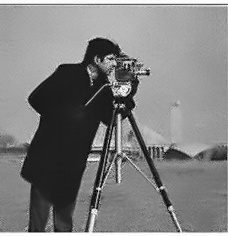
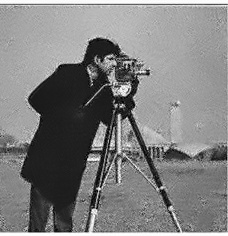
deploy real

diff --git a/templates/index.html b/templates/index.html
@@ -4,12 +4,59 @@
     <meta charset="UTF-8">
     <meta name="viewport" content="width=device-width, initial-scale=1.0">
     <title>Non-local Means Denoising</title>
+    <style>
+        /* Style to display value inline */
+        #h_value_display {
+            display: inline;
+            margin-left: 10px; /* Add some margin for spacing */
+        }
+        #h_value_input {
+            width: 50px; /* Adjust the width of the input field */
+        }
+    </style>
 </head>
 <body>
     <h1>Non-local Means Denoising</h1>
     <form action="/upload" method="post" enctype="multipart/form-data">
-        <input type="file" name="file" id="file">
+        <input type="file" name="file" id="file" onchange="previewImage(event)">
+        <label for="h_value">Value of h:</label>
+        <input type="range" name="h_value_slider" id="h_value_slider" min="0" max="100" step="0.1" value="20" onchange="updateHValue(this.value)">
+        <input type="number" name="h_value_input" id="h_value_input" min="0" step="0.1" value="20" onchange="updateHValue(this.value)">
+        <input type="hidden" name="h_value" id="h_value" value="20">
         <input type="submit" value="Upload">
     </form>
+    <div id="image_preview"></div> 
+
+    <script>
+        // Function to preview the selected image
+        function previewImage(event) {
+            const file = event.target.files[0];
+            const reader = new FileReader();
+            
+            // Closure to handle file reading
+            reader.onload = function() {
+                const img = document.createElement('img');
+                img.src = reader.result;
+                img.style.maxWidth = '100%'; 
+                const imagePreviewDiv = document.getElementById('image_preview');
+                imagePreviewDiv.innerHTML = ''; 
+                imagePreviewDiv.appendChild(img); 
+            };
+            
+            // Read the selected file as a data URL
+            reader.readAsDataURL(file);
+        }
+
+        // Function to update the displayed value of h
+        function updateHValue(value) {
+            const hValueInput = document.getElementById('h_value_input');
+            const hValueSlider = document.getElementById('h_value_slider');
+            const hValueHidden = document.getElementById('h_value'); 
+
+            hValueInput.value = value;
+            hValueSlider.value = value;
+            hValueHidden.value = value; 
+        }
+    </script>
 </body>
 </html>

diff --git a/app.py b/app.py
@@ -31,15 +31,16 @@ def upload_file():
             filename = file.filename
             filepath = os.path.join(app.config['UPLOAD_FOLDER'], filename)
             file.save(filepath)
+            h_value = float(request.form['h_value'])  # Get the value of h from the form
             img = cv2.imread(filepath)
-            denoised_img = perform_nlm_denoising(img)
+            denoised_img = perform_nlm_denoising(img, h=h_value)  # Pass h_value to the function
             output_filename = 'denoised_' + filename
             output_filepath = os.path.join(app.config['OUTPUT_FOLDER'], output_filename)
             cv2.imwrite(output_filepath, denoised_img)
             return render_template('result.html', filename=output_filename)
     return redirect(url_for('index'))
 
-def perform_nlm_denoising(image):
+def perform_nlm_denoising(image, h=20):  # Add a default value for h
     # Check if the input image is not None
     if image is None:
         return None
@@ -47,7 +48,7 @@ def perform_nlm_denoising(image):
     gray_image = cv2.cvtColor(image, cv2.COLOR_BGR2GRAY)
 
     # H defines the filter strength (more =  blurry, less = less filter)
-    denoised_image = cv2.fastNlMeansDenoising(gray_image, None, h=20)
+    denoised_image = cv2.fastNlMeansDenoising(gray_image, None, h=h)
 
     return denoised_image
 
